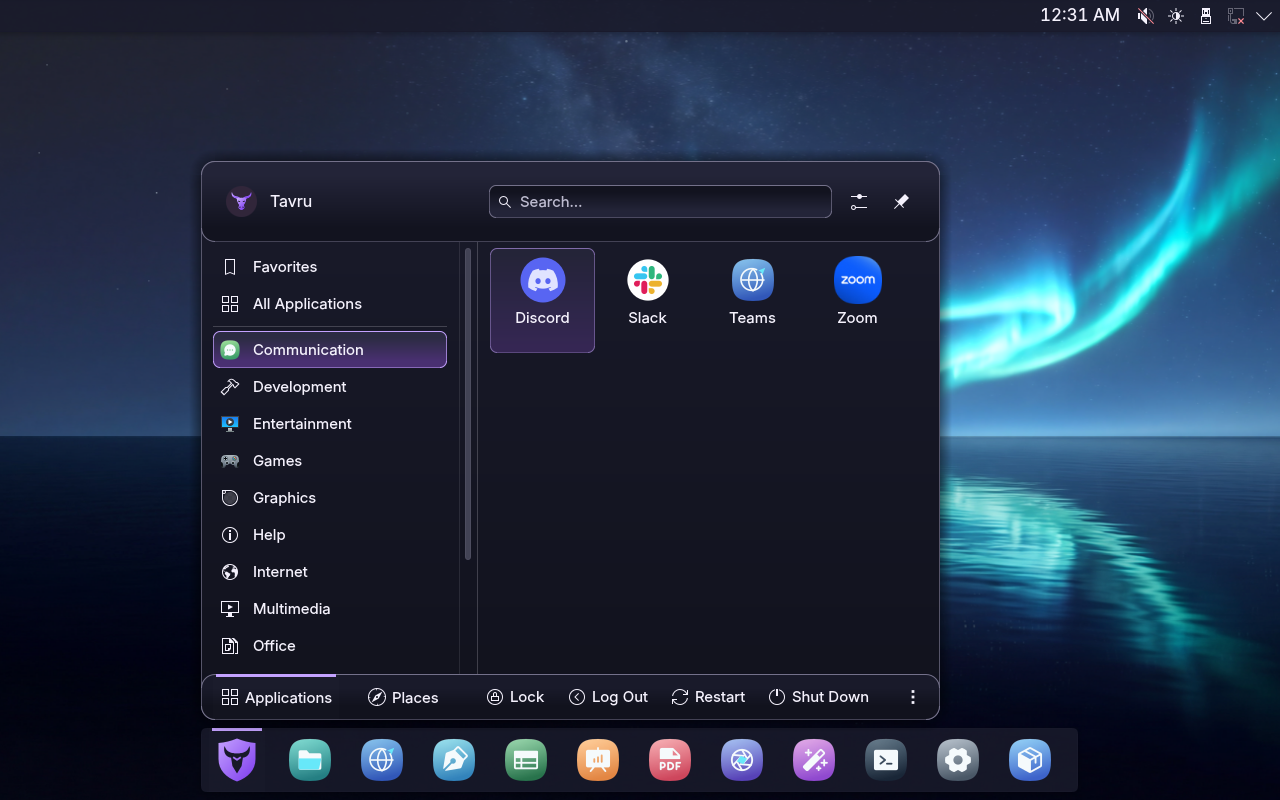
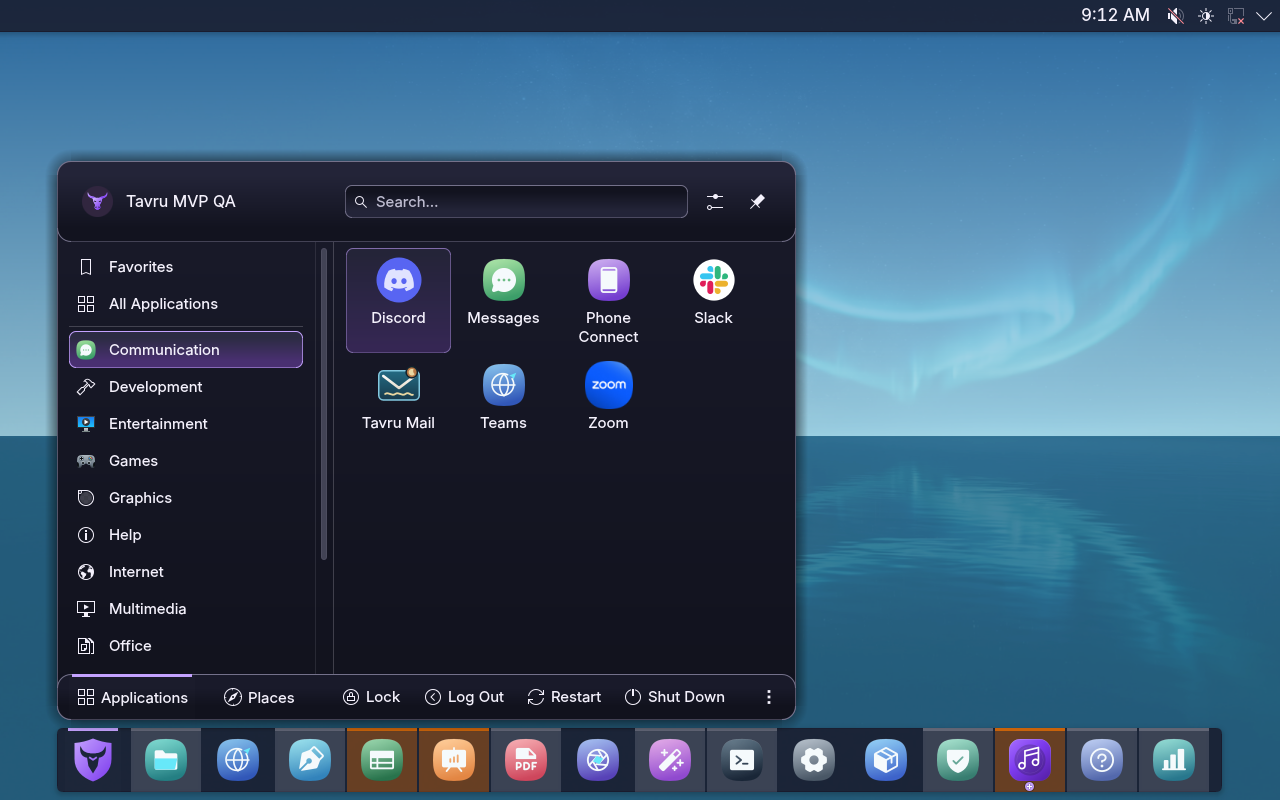
Show the updated TavruOS application menus

diff --git a/apps.md b/apps.md
@@ -96,6 +96,15 @@ Open the application menu and search for an app by name. Launch it and use the t
 
 ### Communication, entertainment, and games
 
-Use **Communication** to find Discord, Slack, Zoom, and the Teams web shortcut. To play local media, open Tavru Media or VLC. Streaming entries open their respective services. For games, choose a launcher such as Steam Installer, Lutris, or Bottles and complete its setup before installing a supported game.
+The menu screenshots below show the updated layout prepared for the next ISO. On the currently downloadable image, some apps may appear under different categories.
 
-![Communication menu with meeting and messaging apps](screens/communication.png)
+- **Communication** groups Tavru Mail, Messages, Phone Connect, Discord, Slack, Zoom, and the Teams web shortcut.
+- **Entertainment** brings together Tavru Media and VLC for local playback, plus Spotify and Netflix. Streaming services may require an account or subscription.
+- **Games** includes Steam, Lutris, and Xbox Cloud Gaming. For Windows apps, look for Bottles and Windows Apps under **System**.
+- **System** keeps **Terminal** as the main command-line launcher and **System Monitor** for the KDE resource dashboard. **Archive Manager** is under **Utilities**.
+
+![Communication menu with Tavru Mail, Phone Connect, Messages, Discord, Slack, Teams, and Zoom](screens/communication.png)
+
+![Entertainment menu with Netflix, Spotify, Tavru Media, and VLC](screens/entertainment.png)
+
+![Games menu with Lutris, Steam, and Xbox Cloud Gaming](screens/games.png)
